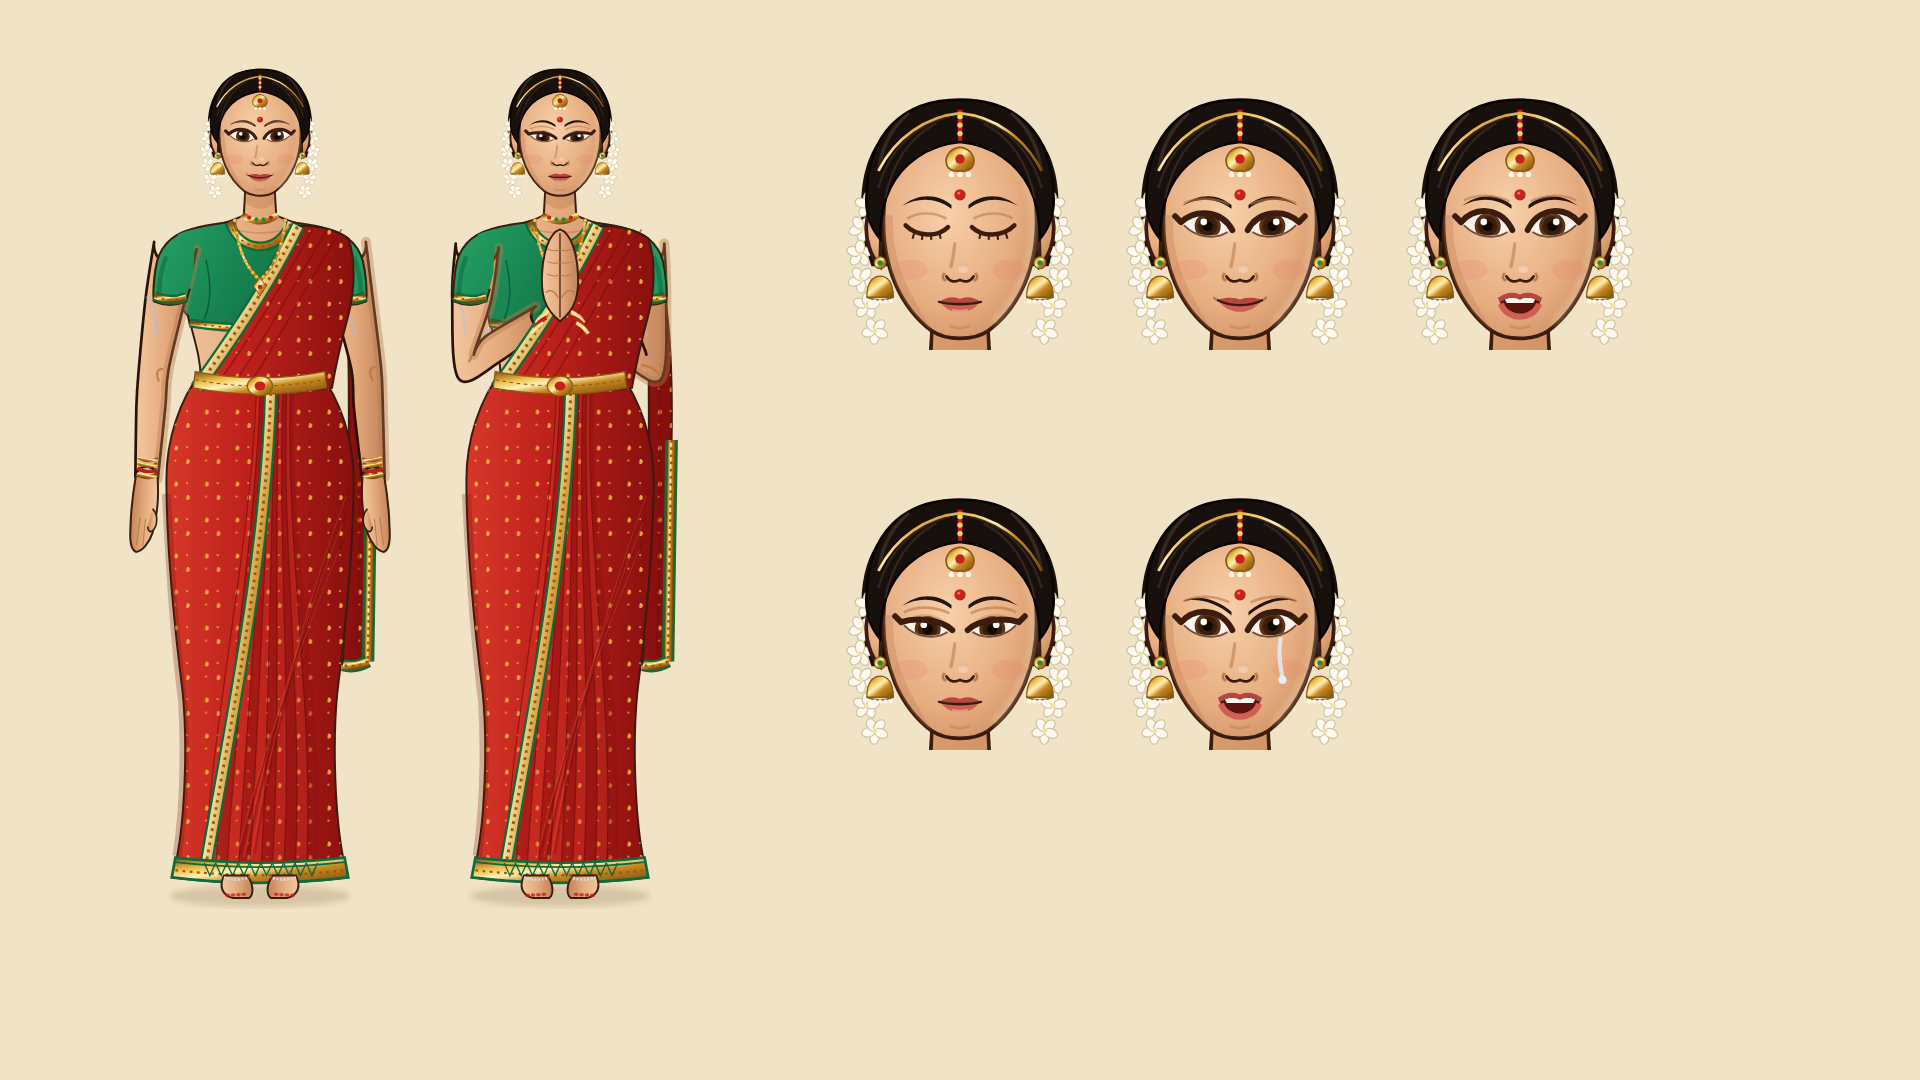
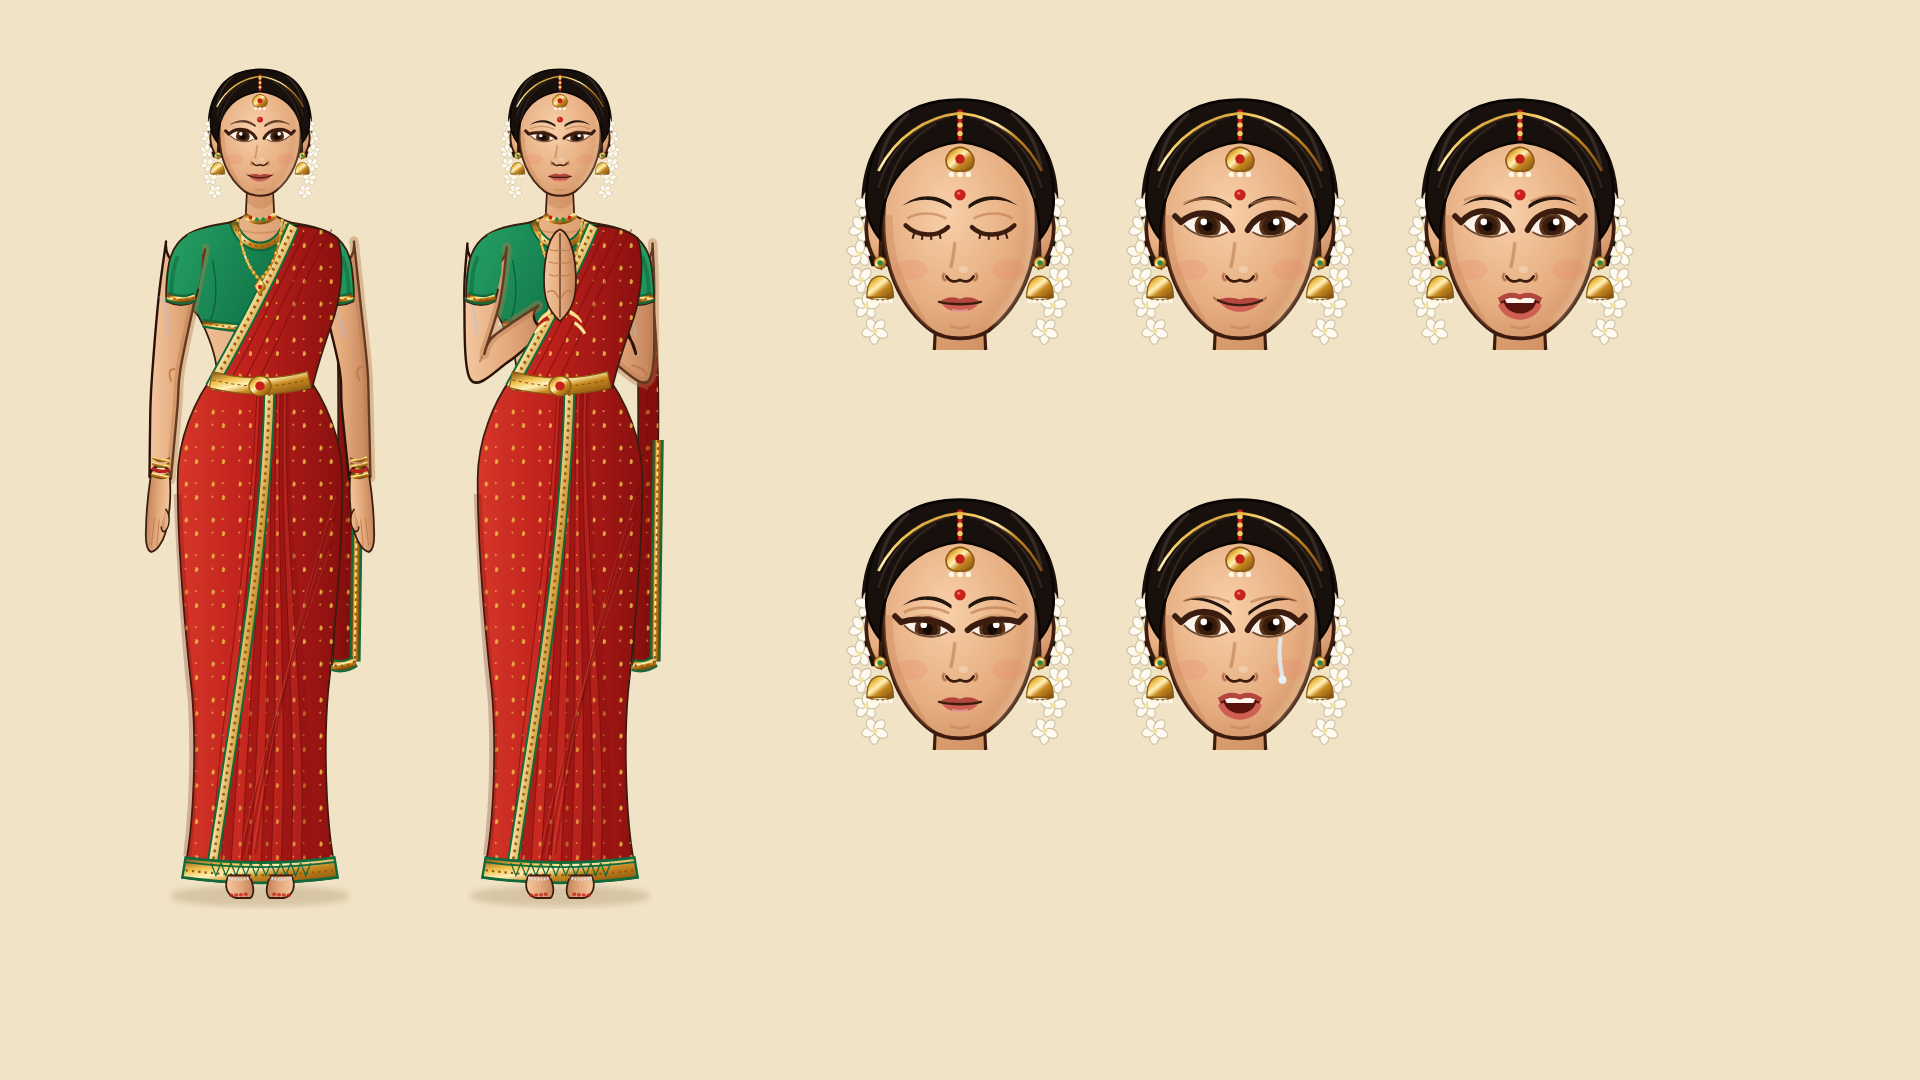
Slim both characters: narrower bodies, defined waist, hourglass Tulasi, V-shaped Vishnu, slimmer dhoti
Claude-Session: https://claude.ai/code/session_01X3ArEdZK7W9b78YVvUKCgo

Changed region(s): [[0.0625, 0.1833, 0.375, 0.825]]

diff --git a/devotional-studio/engine/characters.js b/devotional-studio/engine/characters.js
@@ -182,7 +182,7 @@ function tulasi(x, y, s = 1, o = {}) {
   const J = pose === 'anjali'
     ? { r: { sh: [-92, 184], el: [-104, 318], wr: [-20, 262] }, l: { sh: [92, 184], el: [104, 318], wr: [20, 262] } }
     : { r: { sh: [-94, 184], el: [-118, 320], wr: [-126, 442] }, l: { sh: [94, 184], el: [118, 320], wr: [126, 442] } };
-  const armW = [48, 45, 33, 33, 25];
+  const armW = [50, 47, 35, 35, 27];
   const relaxedHand = (sx) => `<g transform="translate(${sx * 126},442) rotate(${sx * -4}) scale(${sx},1)">
       <path d="M-12 -2 C -15 18 -15 40 -11 60 C -8 72 -1 82 6 83 C 12 81 14 70 14 57 C 15 38 14 18 12 -2Z" fill="${SK}" stroke="${INK}" stroke-width="${LW}"/>
       <path d="M-9 34 C -16 40 -16 52 -11 58 C -8 61 -5 58 -5 54" fill="${SK}" stroke="${INK}" stroke-width="1.8"/>
@@ -204,24 +204,25 @@ function tulasi(x, y, s = 1, o = {}) {
     </g>`;
 
   // ---- costume shapes
-  const skinBody = `M-16 116 L -18 150 C -34 160 -66 164 -90 172 C -100 178 -104 190 -100 204 L -78 268 C -72 292 -66 310 -66 330 L 66 330 C 66 310 72 292 78 268 L 100 204 C 104 190 100 178 90 172 C 66 164 34 160 18 150 L 16 116Z`;
-  const blouse = `M-34 158 C -22 194 22 194 34 158 C 54 160 76 163 92 172 C 102 180 106 196 104 212 C 100 236 90 252 80 262 L 78 272 Q 0 284 -78 272 L -80 262 C -90 252 -100 236 -104 212 C -106 196 -102 180 -92 172 C -76 163 -54 160 -34 158Z`;
+  const skinBody = `M-16 116 L -18 150 C -34 160 -66 164 -90 172 C -100 178 -104 190 -100 204 L -74 268 C -62 290 -54 310 -54 330 L 54 330 C 54 310 62 290 74 268 L 100 204 C 104 190 100 178 90 172 C 66 164 34 160 18 150 L 16 116Z`;
+  const blouse = `M-34 158 C -22 194 22 194 34 158 C 54 160 76 163 92 172 C 102 180 106 196 104 212 C 100 236 90 252 78 262 L 72 272 Q 0 284 -72 272 L -78 262 C -90 252 -100 236 -104 212 C -106 196 -102 180 -92 172 C -76 163 -54 160 -34 158Z`;
   const sleeveFill = (sx) => `<path transform="scale(${sx},1)" d="M-72 166 C -92 168 -110 180 -116 204 C -120 220 -120 236 -118 246 Q -100 254 -82 246 L -74 214 Z" fill="url(#tBlouse)"/>`;
   const sleeveLine = (sx) => `<g transform="scale(${sx},1)">
       <path d="M-92 172 C -106 180 -114 194 -116 210 C -118 224 -119 238 -118 246 Q -100 254 -82 246 L -78 232" fill="none" stroke="${INK}" stroke-width="${LW}"/>
       ${borderStroke('M-117 240 Q -100 248 -82 241', 6)}
       <path d="M-104 196 C -110 210 -112 224 -112 236" stroke="#0a4a2c" stroke-width="5" fill="none" opacity=".35"/></g>`;
-  const skirt = `M-64 322 C -90 356 -104 400 -104 444 C -104 520 -96 600 -86 680 C -80 740 -84 820 -92 862 L -98 886 Q 0 898 98 886 L 92 862 C 84 820 80 740 86 680 C 96 600 104 520 104 444 C 104 400 90 356 64 322 Q 0 332 -64 322Z`;
+  const skirt = `M-54 322 C -84 356 -104 400 -104 444 C -104 520 -96 600 -86 680 C -80 740 -84 820 -92 862 L -98 886 Q 0 898 98 886 L 92 862 C 84 820 80 740 86 680 C 96 600 104 520 104 444 C 104 400 84 356 54 322 Q 0 332 -54 322Z`;
   const pleats = [...Array(10)].map((_, i) => {
     const x0 = -4 + i * 4.2, x0b = x0 + 4.2, x1 = -62 + i * 12.6, x1b = x1 + 12.6;
     return `<path d="M${x0} 346 C ${x0 - 6} 520 ${x1 + 10} 700 ${x1} 880 L ${x1b} 880 C ${x1b + 10} 700 ${x0b - 6} 520 ${x0b} 346Z" fill="${i % 2 ? '#8e1210' : '#d63a2c'}" opacity="${i % 2 ? .45 : .28}"/>
       <path d="M${x0} 346 C ${x0 - 6} 520 ${x1 + 10} 700 ${x1} 880" stroke="#6a0b0a" stroke-width="1.3" fill="none" opacity=".6"/>`;
   }).join('') + [0, 1, 2].map(k => `<path d="M${100 - k * 4} ${452 + k * 30} C ${60 - k * 10} ${560 + k * 40} ${20 - k * 10} ${700 + k * 30} ${-6 - k * 8} ${860}" stroke="#6a0b0a" stroke-width="2.4" fill="none" opacity=".35"/><path d="M${96 - k * 4} ${462 + k * 30} C ${56 - k * 10} ${570 + k * 40} ${16 - k * 10} ${710 + k * 30} ${-10 - k * 8} ${864}" stroke="#ff6a50" stroke-width="1.4" fill="none" opacity=".25"/>`).join('');
   const pleatHem = [...Array(10)].map((_, i) => `<path d="M${-62 + i * 12.6} 870 l 6.3 14 l 6.3 -14" stroke="#0f6a3c" stroke-width="1.5" fill="none"/>`).join('');
-  const palluFront = `M-70 342 C -40 300 8 232 42 162 C 62 162 84 166 98 176 C 106 196 106 232 98 262 C 90 292 84 318 80 342 Q 6 352 -70 342Z`;
+  const palluFront = `M-62 342 C -36 300 8 232 42 162 C 62 162 84 166 98 176 C 106 196 104 232 94 262 C 82 292 72 318 66 342 Q 6 352 -62 342Z`;
   const palluHang = `M94 178 C 116 196 126 280 124 400 L 120 646 Q 106 654 92 650 C 98 520 100 400 98 290 C 97 240 96 200 94 178Z`;
 
   return `<g transform="translate(${x},${y}) scale(${s})">
+    <g transform="scale(${o.slim ?? .88},1)">
     <!-- back layer: pallu hanging behind the left arm -->
     <path d="${palluHang}" fill="url(#tSaree)" stroke="${INK}" stroke-width="${LW}"/>
     <path d="${palluHang}" fill="url(#tButta)"/>
@@ -249,7 +250,7 @@ function tulasi(x, y, s = 1, o = {}) {
     <!-- blouse body -->
     <path d="${blouse}" fill="url(#tBlouse)" stroke="${INK}" stroke-width="${LW}"/>
     ${borderStroke('M-34 158 C -22 194 22 194 34 158', 6)}
-    ${borderStroke('M-78 270 Q 0 282 78 270', 5)}
+    ${borderStroke('M-72 270 Q 0 282 72 270', 5)}
     <path d="M-60 200 C -54 226 -54 248 -62 266" stroke="#0a4a2c" stroke-width="1.6" fill="none" opacity=".7"/>
     <!-- arms -->
     ${pose === 'anjali' ? `${A.arm(J.r.sh, J.r.el, J.r.wr, SK, SH, armW)}${A.arm(J.l.sh, J.l.el, J.l.wr, SK, SH, armW)}`
@@ -259,11 +260,11 @@ function tulasi(x, y, s = 1, o = {}) {
     <!-- pallu across the chest over the left shoulder -->
     <path d="${palluFront}" fill="url(#tSaree)" stroke="${INK}" stroke-width="${LW}"/>
     <path d="${palluFront}" fill="url(#tButta)"/>
-    ${[18, 36, 54].map(d => `<path d="M${-70 + d} 344 C ${-40 + d} 304 ${8 + d * .7} 236 ${42 + d * .9} 166" stroke="#7a0d0c" stroke-width="1.8" fill="none" opacity=".55"/>`).join('')}
-    ${borderStroke('M-70 342 C -40 300 8 232 42 162', 11)}
+    ${[18, 36, 54].map(d => `<path d="M${-62 + d} 344 C ${-36 + d} 304 ${8 + d * .7} 236 ${42 + d * .9} 166" stroke="#7a0d0c" stroke-width="1.8" fill="none" opacity=".55"/>`).join('')}
+    ${borderStroke('M-62 342 C -36 300 8 232 42 162', 11)}
     <!-- waist belt -->
-    <path d="M-72 324 Q 0 338 72 324 L 74 342 Q 0 356 -74 342Z" fill="url(#gold)" stroke="#8a5a12" stroke-width="1.4"/>
-    <path d="M-72 333 Q 0 347 72 333" stroke="#8a5a12" stroke-width="1.2" stroke-dasharray="4 4" fill="none"/>
+    <path d="M-60 324 Q 0 338 60 324 L 64 342 Q 0 356 -64 342Z" fill="url(#gold)" stroke="#8a5a12" stroke-width="1.4"/>
+    <path d="M-60 333 Q 0 347 60 333" stroke="#8a5a12" stroke-width="1.2" stroke-dasharray="4 4" fill="none"/>
     <ellipse cx="0" cy="340" rx="14" ry="11" fill="url(#gold)" stroke="#8a5a12" stroke-width="1.4"/>
     <ellipse cx="0" cy="340" rx="6" ry="5" fill="#c8201a"/>
     <!-- necklaces -->
@@ -274,6 +275,7 @@ function tulasi(x, y, s = 1, o = {}) {
     <path d="M0 220 l 7 9 -7 11 -7 -11z" fill="url(#gold)" stroke="#8a5a12" stroke-width="1"/><circle cx="0" cy="230" r="2.6" fill="#c8201a"/>
     <!-- hands -->
     ${pose === 'anjali' ? anjaliHands : `${relaxedHand(-1)}${relaxedHand(1)}`}
+    </g>
     <!-- head -->
     ${tulasiHead(o)}
   </g>`;
@@ -336,9 +338,9 @@ function vishnu(x, y, s = 1, o = {}) {
   };
   const aw = [44, 42, 31, 32, 24];
   const curls = (sx) => [...Array(8)].map((_, i) => `<g transform="scale(${sx},1)"><path d="M${44 + i * 2.5} ${104 + i * 22} c 16 -4 30 6 28 20 c -2 10 -14 12 -20 6 c 6 -2 8 -8 4 -12 c -4 -4 -12 -2 -12 6 c -10 -2 -8 -16 0 -20z" fill="#140d0a" stroke="#000" stroke-width=".8"/><path d="M${50 + i * 2.5} ${110 + i * 22} c 8 -2 14 2 14 8" stroke="#4a3a30" stroke-width="1.2" fill="none"/></g>`).join('');
-  const torso = 'M-22 158 C -60 168 -98 176 -120 196 C -132 210 -132 240 -126 268 C -116 316 -96 356 -84 412 L 84 412 C 96 356 116 316 126 268 C 132 240 132 210 120 196 C 98 176 60 168 22 158Z';
-  const dhoti = 'M-88 402 C -118 440 -130 490 -130 540 C -130 620 -122 700 -106 760 C -96 800 -90 860 -88 900 L -94 936 Q -60 945 -22 936 L -16 900 C -12 840 -8 800 0 772 C 8 800 12 840 16 900 L 22 936 Q 60 945 94 936 L 88 900 C 90 860 96 800 106 760 C 122 700 130 620 130 540 C 130 490 118 440 88 402 Q 0 416 -88 402Z';
-  const drape = [480, 550, 620, 690].map((yy, i) => `<path d="M${-120 + i} ${yy} Q -60 ${yy + 54 - i * 4} -6 ${yy + 22}" stroke="#a8680a" stroke-width="3" fill="none" opacity=".55"/><path d="M${-118 + i} ${yy + 6} Q -60 ${yy + 58 - i * 4} -6 ${yy + 28}" stroke="#ffe27a" stroke-width="2" fill="none" opacity=".5"/><path d="M${120 - i} ${yy} Q 60 ${yy + 54 - i * 4} 6 ${yy + 22}" stroke="#a8680a" stroke-width="3" fill="none" opacity=".55"/><path d="M${118 - i} ${yy + 6} Q 60 ${yy + 58 - i * 4} 6 ${yy + 28}" stroke="#ffe27a" stroke-width="2" fill="none" opacity=".35"/>`).join('');
+  const torso = 'M-22 158 C -60 168 -98 176 -120 196 C -132 210 -132 240 -126 268 C -114 316 -88 356 -72 412 L 72 412 C 88 356 114 316 126 268 C 132 240 132 210 120 196 C 98 176 60 168 22 158Z';
+  const dhoti = 'M-76 402 C -104 440 -116 490 -116 540 C -116 620 -110 700 -96 760 C -88 800 -84 860 -84 900 L -90 936 Q -58 945 -22 936 L -16 900 C -12 840 -8 800 0 772 C 8 800 12 840 16 900 L 22 936 Q 58 945 90 936 L 84 900 C 84 860 88 800 96 760 C 110 700 116 620 116 540 C 116 490 104 440 76 402 Q 0 416 -76 402Z';
+  const drape = [480, 550, 620, 690].map((yy, i) => `<path d="M${-108 + i} ${yy} Q -60 ${yy + 54 - i * 4} -6 ${yy + 22}" stroke="#a8680a" stroke-width="3" fill="none" opacity=".55"/><path d="M${-118 + i} ${yy + 6} Q -60 ${yy + 58 - i * 4} -6 ${yy + 28}" stroke="#ffe27a" stroke-width="2" fill="none" opacity=".5"/><path d="M${120 - i} ${yy} Q 60 ${yy + 54 - i * 4} 6 ${yy + 22}" stroke="#a8680a" stroke-width="3" fill="none" opacity=".55"/><path d="M${118 - i} ${yy + 6} Q 60 ${yy + 58 - i * 4} 6 ${yy + 28}" stroke="#ffe27a" stroke-width="2" fill="none" opacity=".35"/>`).join('');
   const vert = [-80, -60, -40, 40, 60, 80].map(xx => `<path d="M${xx * 1.2} 760 C ${xx * 1.05} 820 ${xx * .95} 870 ${xx} 928" stroke="#a8680a" stroke-width="2.2" fill="none" opacity=".6"/>`).join('') + [-1, 1].map(sx => [0, 1, 2, 3].map(k => `<path transform="scale(${sx},1)" d="M${-92 + k * 2} ${880 + k * 12} Q -58 ${890 + k * 12} ${-20 - k} ${880 + k * 12}" stroke="#a8680a" stroke-width="1.8" fill="none" opacity=".6"/>`).join('')).join('');
   const panel = `M-24 420 L 24 420 L 36 690 L -36 690Z`;
   const garland = (sx) => {
@@ -366,6 +368,7 @@ function vishnu(x, y, s = 1, o = {}) {
     <path d="M-8 24 Q 0 34 8 24" fill="url(#gold)" stroke="#8a5a12"/></g>`;
   const handS = .62;
   return `<g transform="translate(${x},${y}) scale(${s})">
+    <g transform="scale(${o.slim ?? .88},1)">
     <!-- hair behind shoulders -->
     ${curls(1)}${curls(-1)}
     <!-- shawl ends hang behind -->
@@ -381,7 +384,7 @@ function vishnu(x, y, s = 1, o = {}) {
     <path d="M-20 120 L -22 162 L 22 162 L 20 120Z" fill="${SK}" stroke="${INK}" stroke-width="${LW}"/>
     <path d="M-20 138 Q 0 152 20 138 L 20 124 L -20 124Z" fill="${SH}" opacity=".35"/>
     <path d="${torso}" fill="url(#vTorso)" stroke="${INK}" stroke-width="${LW}"/>
-    <path d="M-120 196 C -132 210 -132 240 -126 268 C -116 316 -96 356 -84 412 C -98 360 -114 310 -118 262 C -120 236 -120 214 -112 202Z" fill="${SH}" opacity=".4"/>
+    <path d="M-120 196 C -132 210 -132 240 -126 268 C -114 316 -88 356 -72 412 C -90 360 -112 310 -118 262 C -120 236 -120 214 -112 202Z" fill="${SH}" opacity=".4"/>
     <path d="M-86 270 Q -48 288 -12 278 M86 270 Q 48 288 12 278" stroke="${SH}" stroke-width="1.8" fill="none" opacity=".5"/>
     <ellipse cx="-50" cy="236" rx="34" ry="20" fill="#c2cff8" opacity=".18"/>
     <path d="M0 372 Q 4 379 0 386" stroke="${SH}" stroke-width="2.4" fill="none"/>
@@ -396,8 +399,8 @@ function vishnu(x, y, s = 1, o = {}) {
     <path d="M-36 690 l 9 12 l 9 -12 l 9 12 l 9 -12 l 9 12 l 9 -12 l 9 12 l 9 -12" stroke="#c0281c" stroke-width="5" fill="none"/>
     ${borderStroke('M-92 924 Q -58 933 -22 924 M22 924 Q 58 933 92 924', 7, '#c0281c')}
     <!-- waist sash + belt -->
-    <path d="M-88 396 Q 0 412 88 396 L 90 424 Q 0 440 -90 424Z" fill="#c0281c" stroke="${INK}" stroke-width="1.6"/>
-    ${borderStroke('M-88 400 Q 0 416 88 400', 5, '#1f6a3c')}${borderStroke('M-90 420 Q 0 436 90 420', 5, '#1f6a3c')}
+    <path d="M-76 396 Q 0 412 76 396 L 80 424 Q 0 440 -80 424Z" fill="#c0281c" stroke="${INK}" stroke-width="1.6"/>
+    ${borderStroke('M-76 400 Q 0 416 76 400', 5, '#1f6a3c')}${borderStroke('M-80 420 Q 0 436 80 420', 5, '#1f6a3c')}
     <ellipse cx="0" cy="416" rx="16" ry="13" fill="url(#gold)" stroke="#8a5a12" stroke-width="1.4"/><ellipse cx="0" cy="416" rx="7" ry="6" fill="#d1261c"/>
     <!-- feet -->
     ${[-1, 1].map(sx => `<g transform="scale(${sx},1)">
@@ -423,6 +426,7 @@ function vishnu(x, y, s = 1, o = {}) {
       ? `<g transform="translate(0,300) scale(.9)"><path d="M0 -92 C 10 -86 17 -64 18 -38 C 19 -16 16 2 0 14 C -16 2 -19 -16 -18 -38 C -17 -64 -10 -86 0 -92Z" fill="${SK}" stroke="${INK}" stroke-width="${LW}"/><path d="M0 -90 L 0 12" stroke="${INK}" stroke-width="1.4"/><path d="M-20 10 Q 0 20 20 10" stroke="url(#gold)" stroke-width="6" fill="none"/></g>`
       : `<g transform="translate(${J.fR.wr[0]},${J.fR.wr[1]}) rotate(-6) scale(${handS + .04})">${A.openPalm(SK, SH, 1)}</g>
          <g transform="translate(${J.fL.wr[0]},${J.fL.wr[1]}) rotate(${180 - 10}) scale(${handS + .04})">${A.openPalm(SK, SH, 1)}</g>`}
+    </g>
     <!-- head -->
     ${vishnuHead(o)}
   </g>`;
